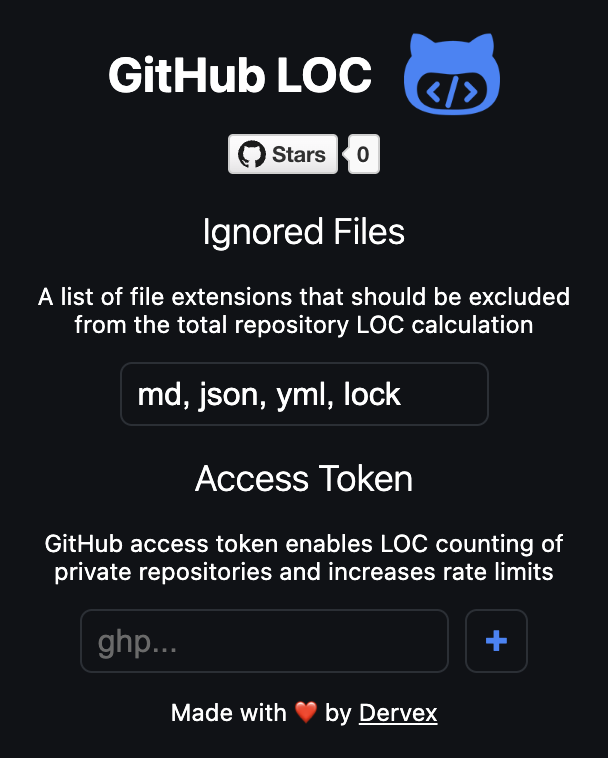
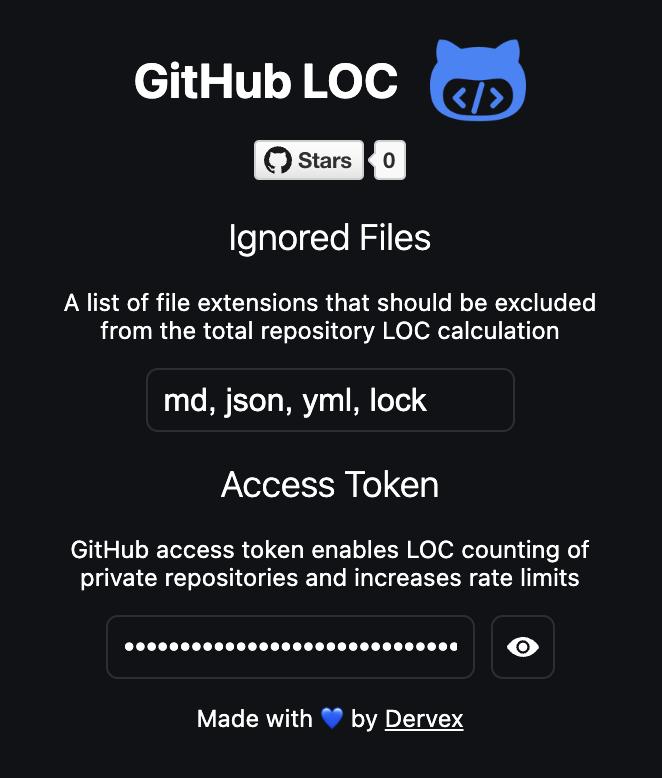
Update settings menu

diff --git a/src/menu/Menu.tsx b/src/menu/Menu.tsx
@@ -1,18 +1,33 @@
 import { useState, useEffect } from 'preact/hooks'
 import './Menu.css'
+import { h } from 'preact'
 
 const DEFAULT_IGNORED_FILES = ['md', 'json', 'yml', 'lock']
 
 export const Menu = () => {
   const [ignoredFiles, setIgnoredFiles] = useState(DEFAULT_IGNORED_FILES.join(', '))
   const [accessToken, setAccessToken] = useState('')
+  const [hidden, setHidden] = useState(false)
 
   function updateIgnoredFiles() {
-    chrome.storage.sync.set({ ignoredFiles: ignoredFiles.split(',').map((s) => s.trim()) })
+    chrome.storage.sync.set({
+      ignoredFiles: ignoredFiles
+        .split(',')
+        .map((s) => s.trim())
+        .filter((s) => s.length > 0),
+    })
   }
 
   function updateAccessToken() {
     chrome.storage.sync.set({ accessToken })
+  }
+
+  function onClick() {
+    if (accessToken.length > 0) {
+      setHidden(!hidden)
+    } else {
+      window.open('https://github.com/settings/tokens/new?scopes=repo&description=GitHub%20LOC')
+    }
   }
 
   useEffect(() => {
@@ -25,15 +40,16 @@ export const Menu = () => {
     chrome.storage.sync.get('accessToken', (result) => {
       if (typeof result.accessToken === 'string') {
         setAccessToken(result.accessToken)
+        setHidden(true)
       }
     })
   }, [])
 
   return (
     <main>
-      <div className="heading">
+      <div className="centered">
         <h1>GitHub LOC</h1>
-        <img className="logo" src="/logo-128.png" width={48} alt="GitHub LOC logo" />
+        <img className="logo" src="/img/logo-128.png" width={48} alt="GitHub LOC logo" />
       </div>
 
       <a href="https://github.com/DervexDev/github-loc" target="_blank">
@@ -61,22 +77,22 @@ export const Menu = () => {
         </p>
         <div>
           <input
-            value={accessToken}
+            readOnly={hidden}
+            value={hidden ? '•'.repeat(accessToken.length) : accessToken}
             placeholder="ghp..."
             onInput={(event) => setAccessToken((event.target as HTMLInputElement)?.value)}
             onFocusOut={updateAccessToken}
           />
-          <a
-            href="https://github.com/settings/tokens/new?scopes=repo&description=GitHub%20LOC"
-            target="_blank"
-          >
-            <button>+</button>
-          </a>
+          <button onClick={onClick}>
+            <div className="centered">
+              {accessToken.length === 0 ? LinkIcon() : hidden ? ShowIcon() : HideIcon()}
+            </div>
+          </button>
         </div>
       </div>
 
       <p>
-        Made with ❤ by{' '}
+        Made with 💙 by{' '}
         <a href="https://dervex.dev/" target="_blank">
           Dervex
         </a>
@@ -85,4 +101,30 @@ export const Menu = () => {
   )
 }
 
-export default Menu
+function ShowIcon() {
+  return (
+    <svg viewBox="0 0 32 19.94">
+      <path d="M0,9.59c.44-1.24,1.33-2.17,2.17-3.12C4.5,3.86,7.31,1.92,10.66.87c5.1-1.61,9.96-.95,14.54,1.78,2.59,1.54,4.69,3.61,6.38,6.1.53.78.57,1.62.03,2.4-2.82,4.12-6.56,7.02-11.45,8.26-4.53,1.14-8.83.46-12.89-1.81-2.78-1.56-5.04-3.7-6.83-6.33-.19-.28-.3-.61-.44-.92,0-.25,0-.5,0-.75ZM22.72,9.95c0-3.66-3.03-6.71-6.66-6.72-3.78,0-6.79,2.99-6.8,6.76,0,3.65,3.04,6.7,6.71,6.7,3.72,0,6.76-3.02,6.76-6.75Z" />
+      <path d="M20.35,9.98c0,2.4-1.99,4.37-4.38,4.35-2.39-.02-4.34-1.98-4.33-4.37,0-2.4,1.99-4.37,4.38-4.35,2.39.02,4.34,1.98,4.34,4.37Z" />
+    </svg>
+  )
+}
+
+function HideIcon() {
+  return (
+    <svg viewBox="0 0 32 22.82">
+      <path d="M0,10.2c.47-1.27,1.39-2.23,2.26-3.22,1.01-1.15,2.16-2.14,3.41-3.02.07-.05.13-.1.21-.17-.61-.61-1.22-1.19-1.81-1.8-.43-.44-.44-1.1-.07-1.57C4.36,0,5.01-.13,5.5.15c.13.08.25.18.36.29,5.55,5.55,11.11,11.1,16.66,16.66,1.2,1.2,2.4,2.4,3.6,3.6.34.34.52.73.41,1.21-.22.91-1.31,1.22-1.99.56-.91-.89-1.8-1.79-2.69-2.7-.14-.14-.25-.16-.43-.1-5.12,1.62-9.99.99-14.59-1.73-2.6-1.53-4.71-3.6-6.4-6.09C.24,11.58.14,11.25,0,10.95c0-.25,0-.5,0-.75ZM9.89,7.83c-1.07,2.11-.85,5.36,1.39,7.56,2.21,2.17,5.42,2.36,7.47,1.3-.59-.59-1.18-1.18-1.77-1.76-.05-.05-.17-.05-.25-.04-.62.09-1.22.07-1.83-.09-2.17-.58-3.49-2.58-3.21-4.88.01-.1.02-.25-.04-.31-.58-.6-1.17-1.18-1.76-1.77Z" />
+      <path d="M26.11,17.34c-.48-.48-.94-.94-1.4-1.4-.79-.8-1.59-1.59-2.39-2.38-.13-.13-.18-.23-.1-.43,1.57-4-.71-8.25-4.9-9.15-1.32-.28-2.61-.14-3.86.35-.1.04-.29.05-.35,0-.92-.89-1.82-1.8-2.78-2.76.51-.15.97-.31,1.43-.42,5.95-1.39,11.22.04,15.91,3.85,1.51,1.23,2.79,2.68,3.89,4.29.57.84.58,1.72.01,2.56-1.47,2.16-3.28,3.98-5.46,5.49Z" />
+      <path d="M20.24,11.4c-1.7-1.7-3.38-3.38-5.06-5.06.88-.43,2.77.1,3.8,1.05,1.29,1.19,1.59,3.03,1.26,4.01Z" />
+    </svg>
+  )
+}
+
+function LinkIcon() {
+  return (
+    <svg viewBox="0 0 32 32">
+      <path d="M0,8.31c.05-.22.09-.44.14-.67C.71,5.28,2.82,3.58,5.26,3.56c2.37-.02,4.75,0,7.12,0,1.04,0,1.83.77,1.83,1.77,0,.99-.78,1.78-1.82,1.78-2.29.01-4.58.03-6.87,0-1.16-.02-1.98.85-1.98,1.96.03,5.81.01,11.62.01,17.43,0,1.22.72,1.94,1.94,1.94,5.81,0,11.62,0,17.44,0,1.23,0,1.95-.72,1.95-1.93,0-2.29,0-4.58,0-6.87,0-1.18.93-1.99,2.07-1.83.84.12,1.48.86,1.49,1.74,0,1.9.01,3.79,0,5.69,0,.85.02,1.72-.13,2.55-.47,2.44-2.64,4.2-5.13,4.21-5.97.01-11.94.01-17.91,0-2.63,0-4.84-1.97-5.21-4.57,0-.06-.04-.12-.06-.17,0-6.31,0-12.62,0-18.93Z" />
+      <path d="M30.56,0s.09.05.14.06c.83.27,1.3.9,1.3,1.78,0,2.81,0,5.62,0,8.44,0,.7,0,1.4,0,2.09,0,1.06-.78,1.86-1.79,1.85-1,0-1.77-.8-1.77-1.84,0-1.96,0-3.92,0-5.87,0-.11,0-.23,0-.42-.14.13-.23.22-.32.31-4.77,4.76-9.53,9.53-14.29,14.3-.53.53-1.14.77-1.87.56-1.23-.34-1.69-1.82-.9-2.81.1-.13.22-.25.34-.36,4.73-4.73,9.46-9.46,14.19-14.18.09-.09.22-.15.33-.23l-.07-.11c-.11,0-.22,0-.33,0-1.98,0-3.96,0-5.94,0-.82,0-1.48-.5-1.72-1.25-.23-.74.04-1.55.69-1.98C18.76.18,19.01.11,19.25,0c3.77,0,7.54,0,11.31,0Z" />
+    </svg>
+  )
+}

diff --git a/src/menu/Menu.css b/src/menu/Menu.css
@@ -1,9 +1,9 @@
 main {
   text-align: center;
-  padding: 1em;
+  padding: 0.25rem 0.75rem;
 }
 
-.heading {
+.centered {
   display: flex;
   align-items: center;
   justify-content: center;
@@ -17,9 +17,14 @@ h2 {
   font-weight: 300;
 }
 
+svg {
+  fill: white;
+  width: 16px;
+}
+
 a:link,
 a:visited {
-  color: #ffffff;
+  color: white;
   outline: 0px solid transparent;
 }
 
@@ -48,21 +53,17 @@ input:focus {
 button {
   margin-left: 0.5rem;
   cursor: pointer;
-  padding: 4px 9px;
-  font-size: 20px;
-  line-height: 22px;
-  font-weight: 600;
+  width: 32px;
+  height: 32px;
   vertical-align: middle;
   background-color: #0d1116;
   border: 1px solid #30363d;
-  color: #4393f8;
   border-radius: 6px;
   outline: none;
   transition: 0.2s cubic-bezier(0.3, 0, 0.5, 1);
 }
 
 button:hover {
-  color: #ffffff;
   background-color: #4393f8;
   border-color: #4393f8;
   box-shadow: rgba(3, 102, 214, 0.3) 0px 0px 0px 3px;
@@ -70,13 +71,13 @@ button:hover {
 
 @media (prefers-color-scheme: light) {
   input {
-    color: #000000;
-    background-color: #ffffff;
+    color: black;
+    background-color: white;
     border-color: #d0d7de;
   }
 
   button {
-    background-color: #ffffff;
+    background-color: white;
     border-color: #d0d7de;
   }
 }

diff --git a/manifest.ts b/manifest.ts
@@ -10,15 +10,15 @@ export default defineManifest({
   version: packageData.version,
   manifest_version: 3,
   icons: {
-    16: 'logo-16.png',
-    32: 'logo-32.png',
-    48: 'logo-48.png',
-    128: 'logo-128.png',
+    16: 'img/logo-16.png',
+    32: 'img/logo-32.png',
+    48: 'img/logo-48.png',
+    128: 'img/logo-128.png',
   },
   options_page: 'src/menu/index.html',
   action: {
     default_popup: 'src/menu/index.html',
-    default_icon: 'logo-48.png',
+    default_icon: 'img/logo-48.png',
   },
   content_scripts: [
     {
@@ -31,12 +31,7 @@ export default defineManifest({
   },
   web_accessible_resources: [
     {
-      resources: [
-        'public/logo-16.png',
-        'public/logo-32.png',
-        'public/logo-48.png',
-        'public/logo-128.png',
-      ],
+      resources: ['img/logo-16.png', 'img/logo-32.png', 'img/logo-48.png', 'img/logo-128.png'],
       matches: [],
     },
   ],

diff --git a/src/menu/index.html b/src/menu/index.html
@@ -2,7 +2,7 @@
 <html lang="en">
   <head>
     <meta charset="UTF-8" />
-    <link rel="icon" href="/logo-48.png" />
+    <link rel="icon" href="/img/logo-48.png" />
     <meta name="viewport" content="width=device-width, initial-scale=1.0" />
     <title>GitHub LOC</title>
   </head>

diff --git a/src/menu/index.css b/src/menu/index.css
@@ -18,11 +18,10 @@
 
 @media (prefers-color-scheme: light) {
   :root {
-    background-color: #ffffff;
+    background-color: white;
   }
 }
 
 body {
   min-width: 20rem;
-  margin: 0;
 }

diff --git a/README.md b/README.md
@@ -2,12 +2,12 @@
 
 # GitHub LOC
 
-Simple yet elegant Google Chrome extension that allows you to view repository Lines Of Code.
+Simple yet elegant Google Chrome extension that allows you to view repository Lines Of Code with an option to exclude selected languages. Clicking on the stat will take you to the [ghloc.vercel.app](https://ghloc.vercel.app/DervexDev/github-loc) page with even more LOC details.
 
-## On GitHub
+## In Action
 
 <img width="300" src="public/demo1.png"/>
 
-## Extension settings
+## Settings
 
 <img width="300" src="public/demo2.png"/>
